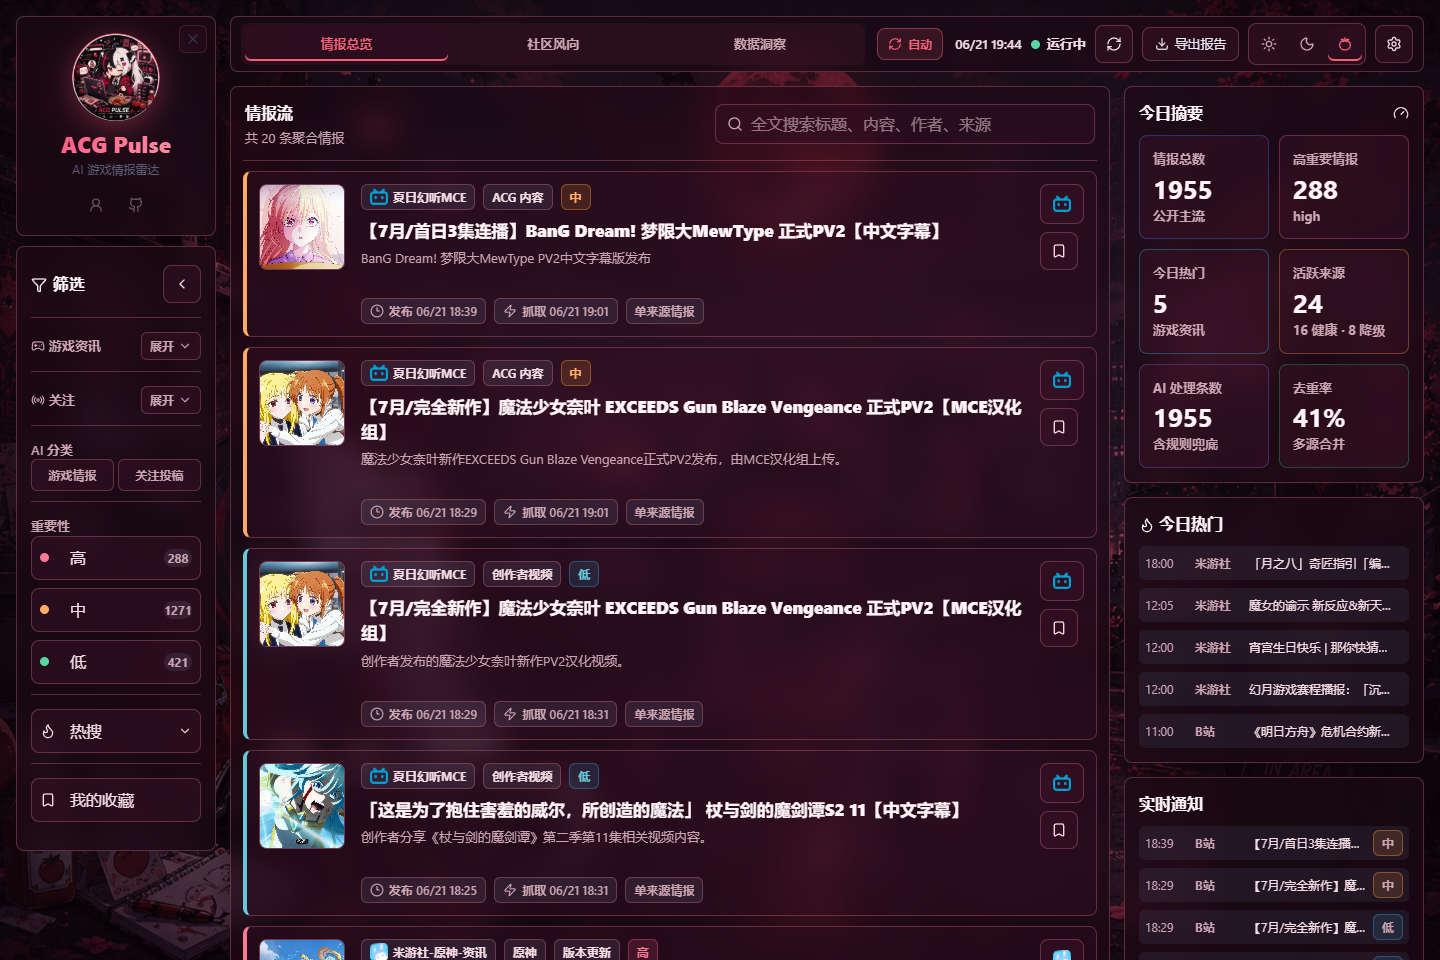
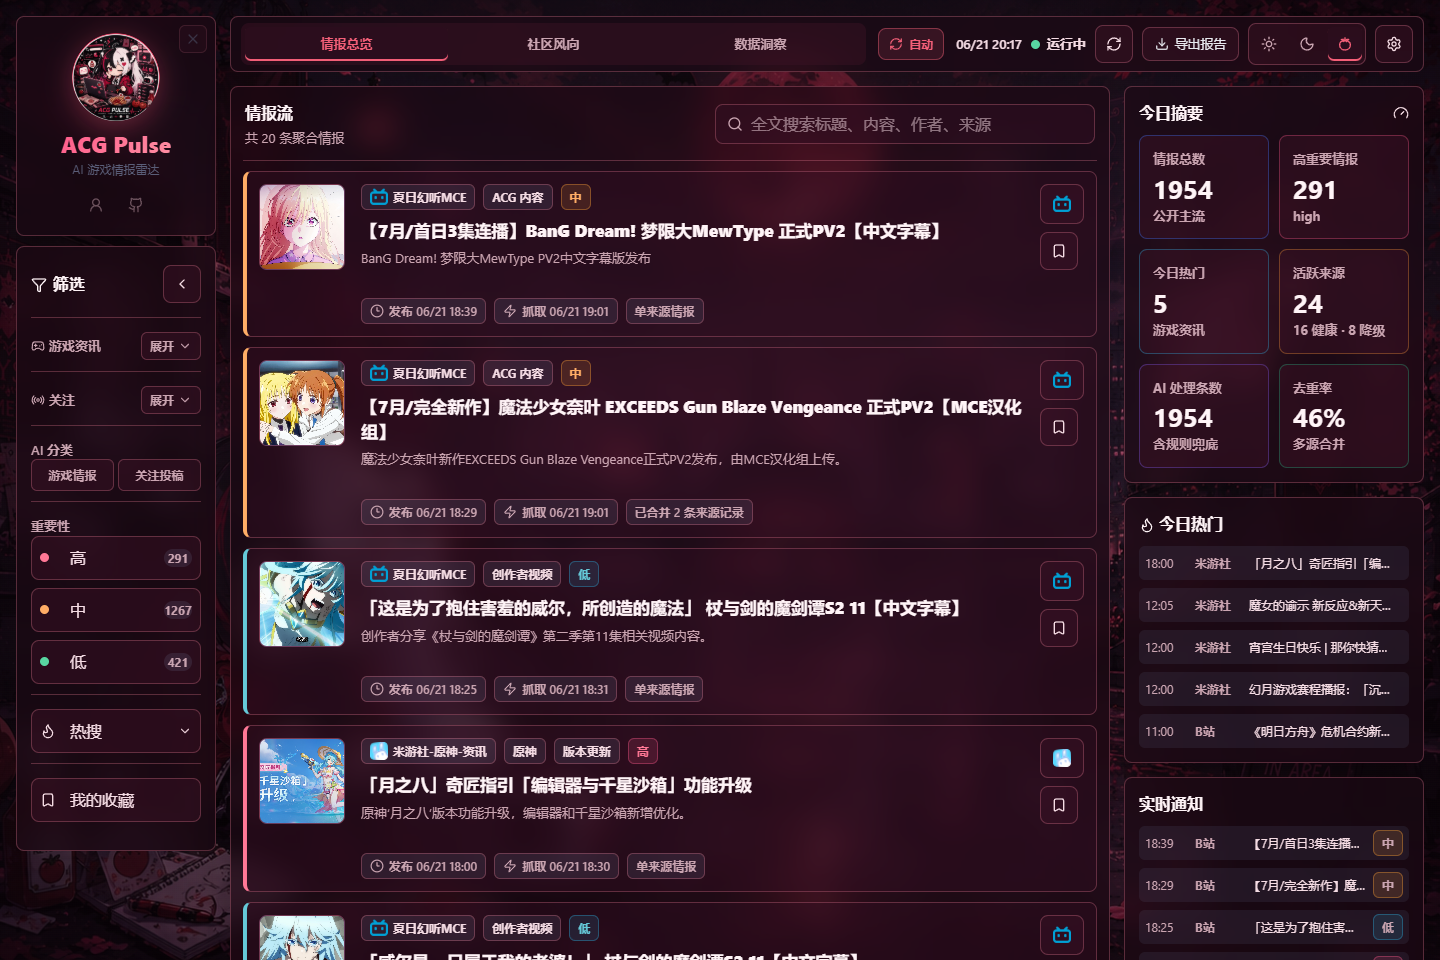
fix: 合并同源重复情报

diff --git a/server/src/gamepulse/__tests__/checkerDedup.test.ts b/server/src/gamepulse/__tests__/checkerDedup.test.ts
@@ -5,7 +5,7 @@ let mockSources: Array<{
   priority: number; healthStatus: string; uid: string | null; avatar: string | null;
   lastSuccessAt: Date | null; lastCheckedAt: Date | null; lastError: string | null;
 }> = [];
-let mockFeedItems: Array<{ id: string; sourceId: string; contentHash: string }> = [];
+let mockFeedItems: Array<{ id: string; sourceId: string; contentHash: string; url?: string }> = [];
 let createdItems: Array<{ sourceId: string; contentHash: string; title: string }> = [];
 
 vi.mock('../../db.js', () => ({
@@ -25,6 +25,14 @@ vi.mock('../../db.js', () => ({
       deleteMany: vi.fn(async () => ({ count: 0 }))
     },
     feedItem: {
+      findFirst: vi.fn(async ({ where }: { where: Record<string, unknown> }) => {
+        const sourceId = where.sourceId as string;
+        const conditions = (where.OR || []) as Array<{ contentHash?: string; url?: string }>;
+        return mockFeedItems.find(item => item.sourceId === sourceId && conditions.some(condition =>
+          (condition.contentHash && item.contentHash === condition.contentHash)
+          || (condition.url && item.url === condition.url)
+        )) || null;
+      }),
       findUnique: vi.fn(async ({ where }: { where: Record<string, unknown> }) => {
         const key = where.sourceId_contentHash as { sourceId: string; contentHash: string } | undefined;
         if (key) {
@@ -36,7 +44,8 @@ vi.mock('../../db.js', () => ({
         const item = {
           id: `item-${mockFeedItems.length + 1}`,
           sourceId: data.sourceId as string,
-          contentHash: data.contentHash as string
+          contentHash: data.contentHash as string,
+          url: data.url as string
         };
         mockFeedItems.push(item);
         createdItems.push({
@@ -110,6 +119,35 @@ describe('checker content dedup', () => {
     expect(result.newItems).toBe(1);
     expect(createdItems.length).toBe(1);
     expect(createdItems[0].title).toBe('新标题');
+  });
+
+  test('skips the same source URL when externalId formats differ', async () => {
+    const publishedAt = new Date('2026-06-21T10:29:46Z');
+    const adapter = await import('../adapters/registry.js');
+    vi.mocked(adapter.getAdapter).mockReturnValue({
+      fetch: vi.fn(async () => [
+        {
+          externalId: 'https://www.bilibili.com/video/BV1JEjt6QEuN',
+          url: 'https://bilibili.com/video/BV1JEjt6QEuN',
+          title: '魔法少女奈叶 PV2',
+          content: 'first',
+          publishedAt
+        },
+        {
+          externalId: 'BV1JEjt6QEuN',
+          url: 'https://bilibili.com/video/BV1JEjt6QEuN',
+          title: '魔法少女奈叶 PV2',
+          content: 'second',
+          publishedAt
+        }
+      ])
+    } as never);
+
+    const { runGamePulseCheck } = await import('../jobs/checker.js');
+    const result = await runGamePulseCheck();
+
+    expect(result.newItems).toBe(1);
+    expect(createdItems).toHaveLength(1);
   });
 
   test('creates all items when no duplicates exist', async () => {

diff --git a/server/src/gamepulse/__tests__/storyAggregation.test.ts b/server/src/gamepulse/__tests__/storyAggregation.test.ts
@@ -353,4 +353,31 @@ describe('aggregateFeedItemsToStories', () => {
     const stories = aggregateFeedItemsToStories(items);
     expect(stories.length).toBe(1);
   });
+
+  test('same URL merges even when AI categories conflict', () => {
+    const url = 'https://bilibili.com/video/BV1JEjt6QEuN';
+    const items = [
+      makeItem({
+        id: 'item_trailer',
+        externalId: 'BV1JEjt6QEuN',
+        title: '魔法少女奈叶 EXCEEDS 正式 PV2',
+        url,
+        itemKind: 'creator_video',
+        analysis: makeAnalysis({ category: 'trailer', importance: 'medium' })
+      }),
+      makeItem({
+        id: 'item_creator',
+        externalId: 'https://www.bilibili.com/video/BV1JEjt6QEuN',
+        title: '魔法少女奈叶 EXCEEDS 正式 PV2',
+        url,
+        itemKind: 'creator_video',
+        analysis: makeAnalysis({ category: 'creator_video', importance: 'low' })
+      })
+    ];
+
+    const stories = aggregateFeedItemsToStories(items);
+
+    expect(stories).toHaveLength(1);
+    expect(stories[0].itemCount).toBe(2);
+  });
 });

diff --git a/server/src/gamepulse/jobs/checker.ts b/server/src/gamepulse/jobs/checker.ts
@@ -124,13 +124,12 @@ async function checkSource(
     let sourceNewCount = 0;
 
     for (const raw of rawItems) {
-      const hash = contentHash([raw.externalId, normalizeUrl(raw.url), raw.title, raw.publishedAt?.toISOString()]);
-      const existing = await prisma.feedItem.findUnique({
+      const normalizedUrl = normalizeUrl(raw.url);
+      const hash = contentHash([raw.externalId, normalizedUrl, raw.title, raw.publishedAt?.toISOString()]);
+      const existing = await prisma.feedItem.findFirst({
         where: {
-          sourceId_contentHash: {
-            sourceId: source.id,
-            contentHash: hash
-          }
+          sourceId: source.id,
+          OR: [{ contentHash: hash }, { url: normalizedUrl }]
         }
       });
       if (existing) continue;
@@ -143,7 +142,7 @@ async function checkSource(
           game: source.game,
           title: truncate(raw.title, 500) || 'Untitled',
           content: truncate(raw.content, 5000) || raw.title,
-          url: normalizeUrl(raw.url),
+          url: normalizedUrl,
           authorName: truncate(raw.authorName || source.name, 120),
           authorUrl: truncate(raw.authorUrl, 500),
           coverUrl: truncate(raw.coverUrl, 1000),

diff --git a/server/src/gamepulse/storyAggregation.ts b/server/src/gamepulse/storyAggregation.ts
@@ -393,13 +393,13 @@ function canMergeIntoStory(
   const anchor = draft.items[0];
   if (anchor.game !== item.game) return false;
   if (hoursBetween(getSortTime(anchor), getSortTime(item)) > mergeWindowHours(anchor, item)) return false;
+  // Exact identity is stronger than AI category output, which can vary between fetches.
+  if (shareUrlOrExternalId(draft, item)) return true;
   if (!areCategoriesCompatible(anchor, item)) return false;
 
   // 条件1：标准化标题完全相同（最高置信度）
   if (draft.normalizedTitle && draft.normalizedTitle === normalizedTitle) return true;
-  // 条件2：URL 或外部 ID 相同（高置信度）
-  if (shareUrlOrExternalId(draft, item)) return true;
-  // 条件3：强关键词重叠 >= 3（收紧条件，之前是 2）
+  // 条件2：强关键词重叠 >= 3（收紧条件，之前是 2）
   if (strongKeywordOverlap(draft.keywords, keywords, anchor.game) >= 3) return true;
 
   return false;